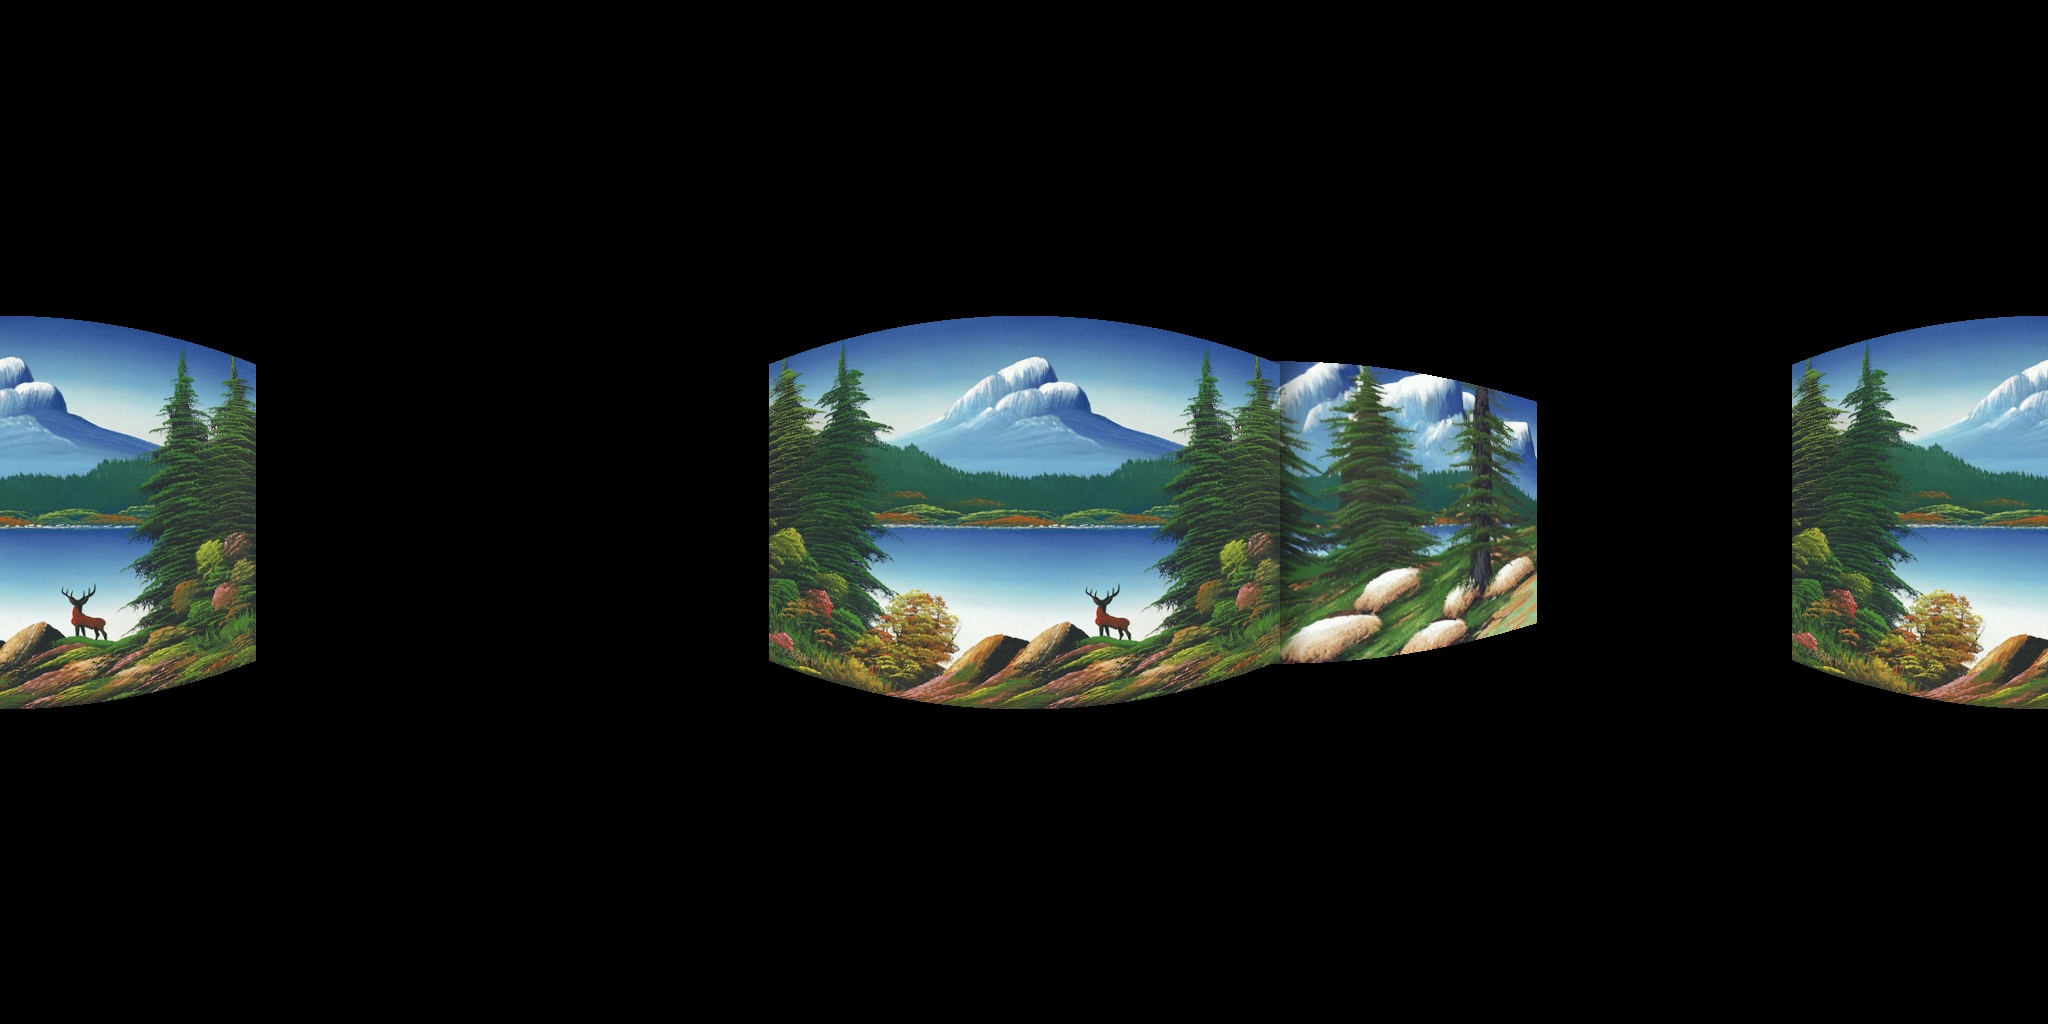
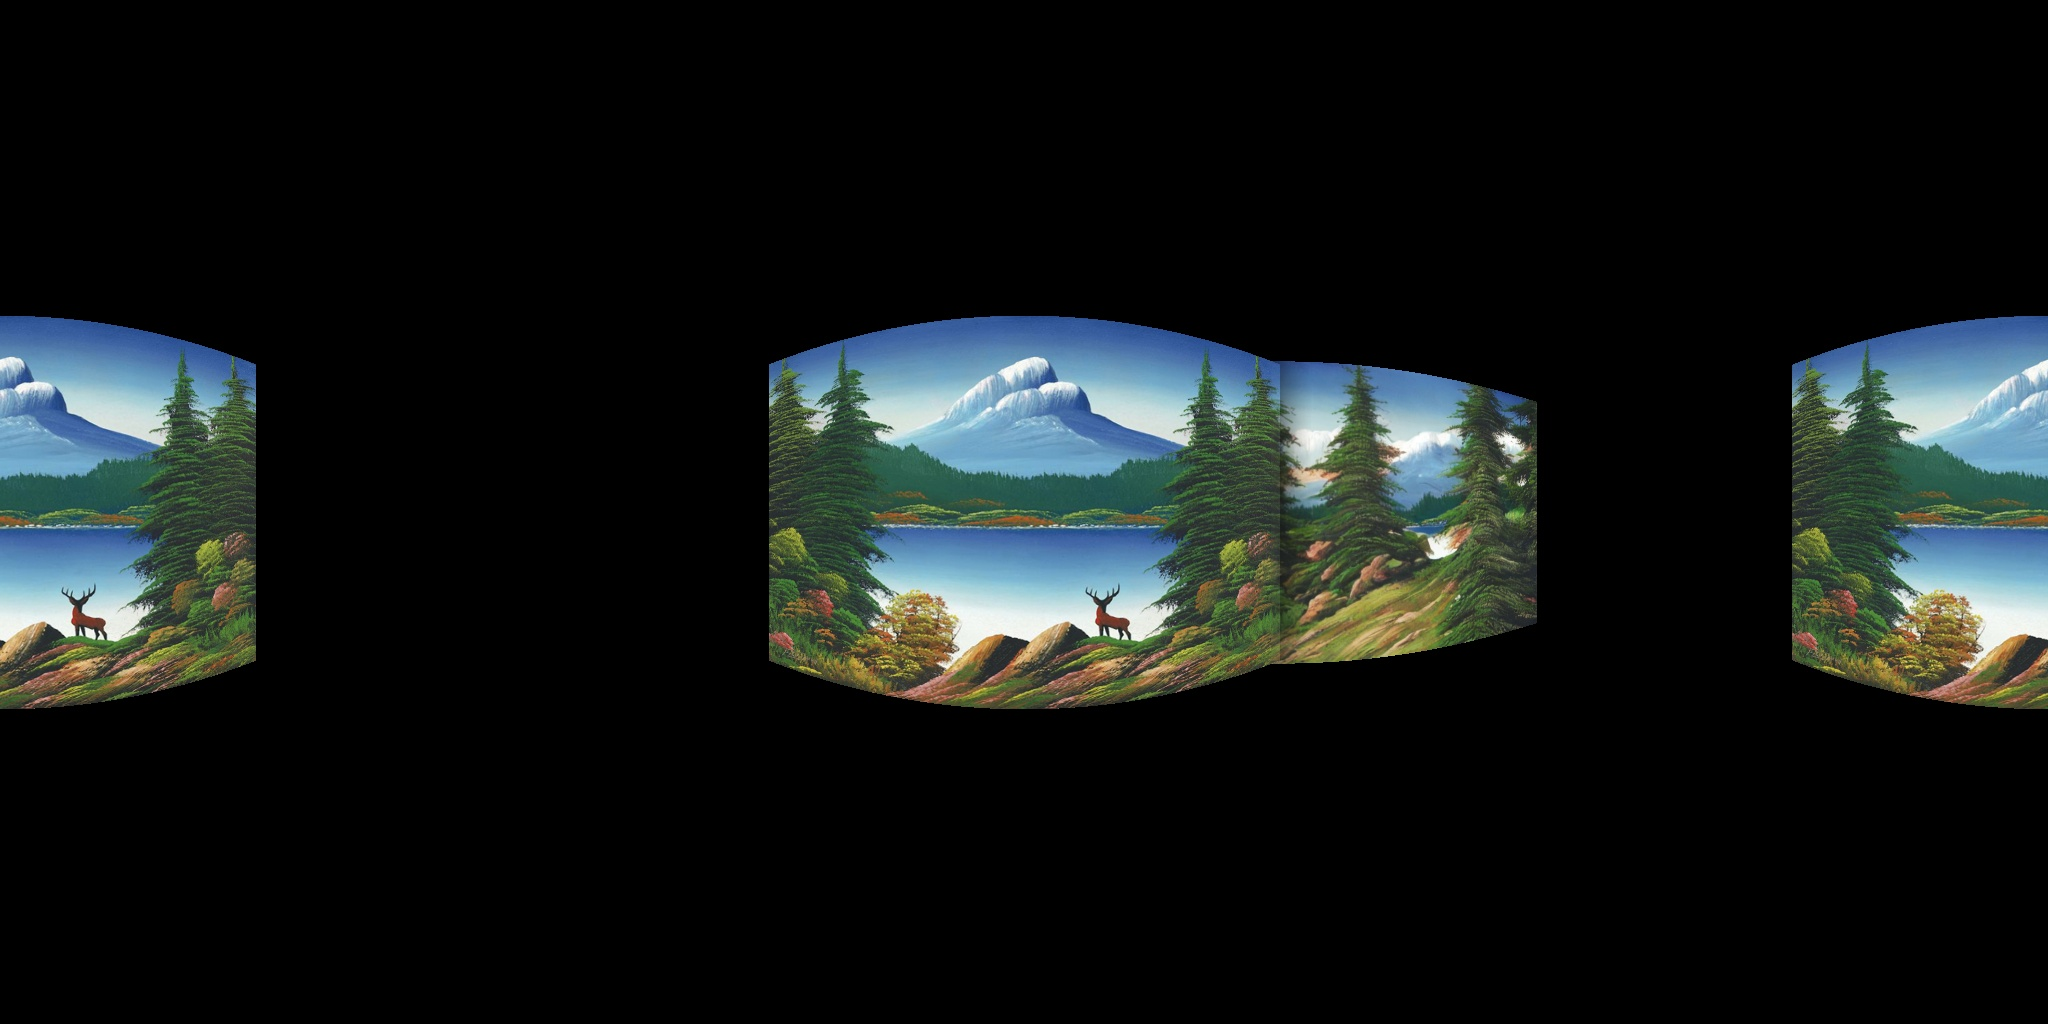
fixed cycle

Changed region(s): [[0.625, 0.3438, 0.75, 0.6562]]

diff --git a/one_cycle.py b/one_cycle.py
@@ -79,3 +79,5 @@ image = cv2.imread("input.jpg")
 pano = center_image(image, fov_deg=90, out_w=2048, out_h=1024)
 pano0 = one_cycle(pano, yaw=45)
 cv2.imwrite("pano0.jpg", pano0)
+pano1 = one_cycle(pano0, yaw=315)
+cv2.imwrite("pano1.jpg", pano1)

diff --git a/utils/blend_pano.py b/utils/blend_pano.py
@@ -1,4 +1,5 @@
-import numpy as np    
+import numpy as np   
+from utils.persp_conv import perspective_to_equirectangular 
 
 def blend_patch_into_pano(
     pano: np.ndarray,
